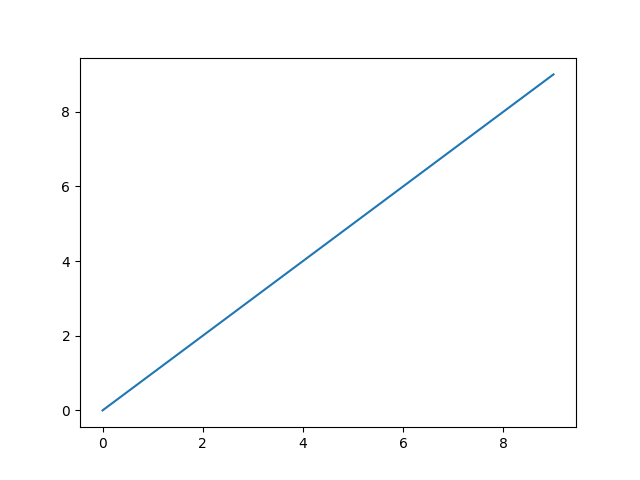
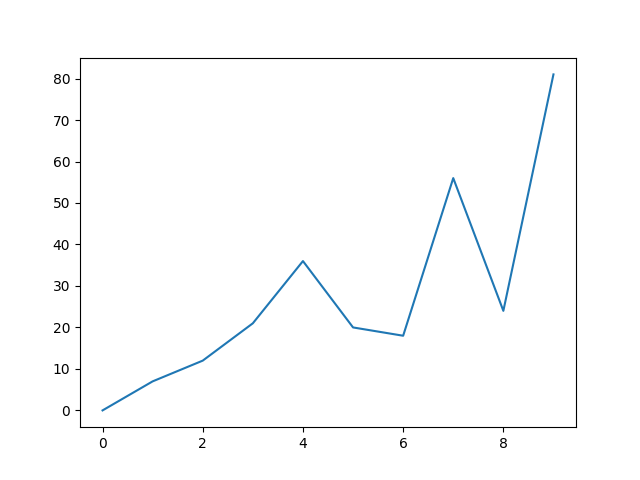
fifth commit

diff --git a/main.py b/main.py
@@ -8,8 +8,9 @@ plt.bar(keys, values)
 plt.savefig('bars.png')
 plt.close()
 
-x = list(random.randrange(10))
-y = list(random.randrange(10))
+x = list(range(10))
+y = [random.randrange(10) * i for i in x]
 plt.plot(x, y)
 plt.savefig('lines.png')
 plt.close()
+
